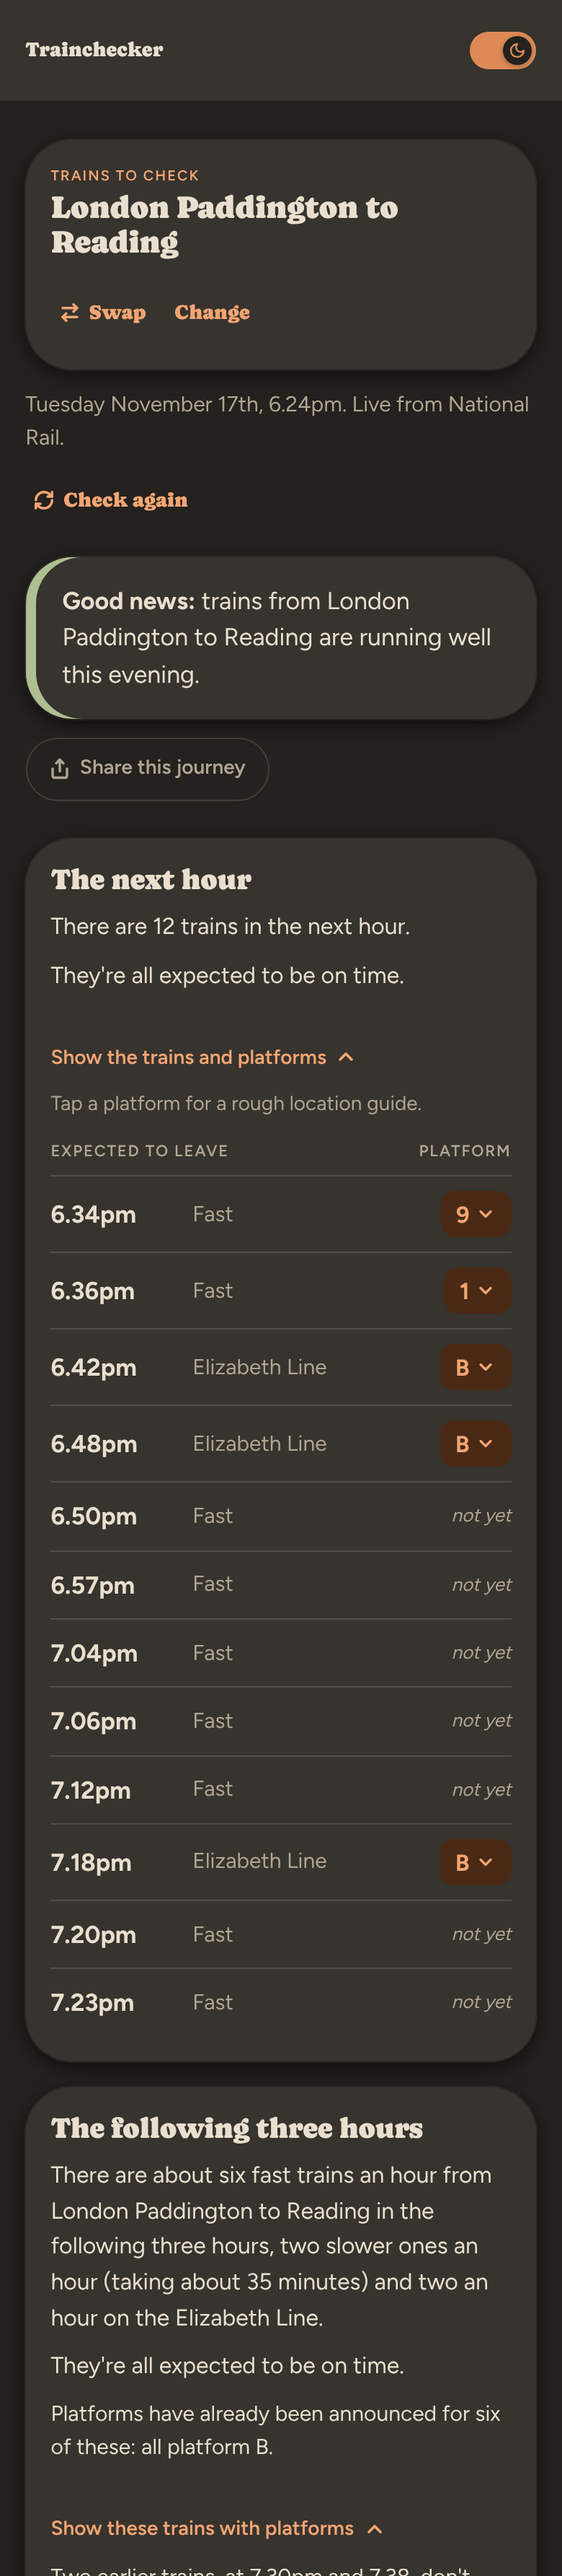
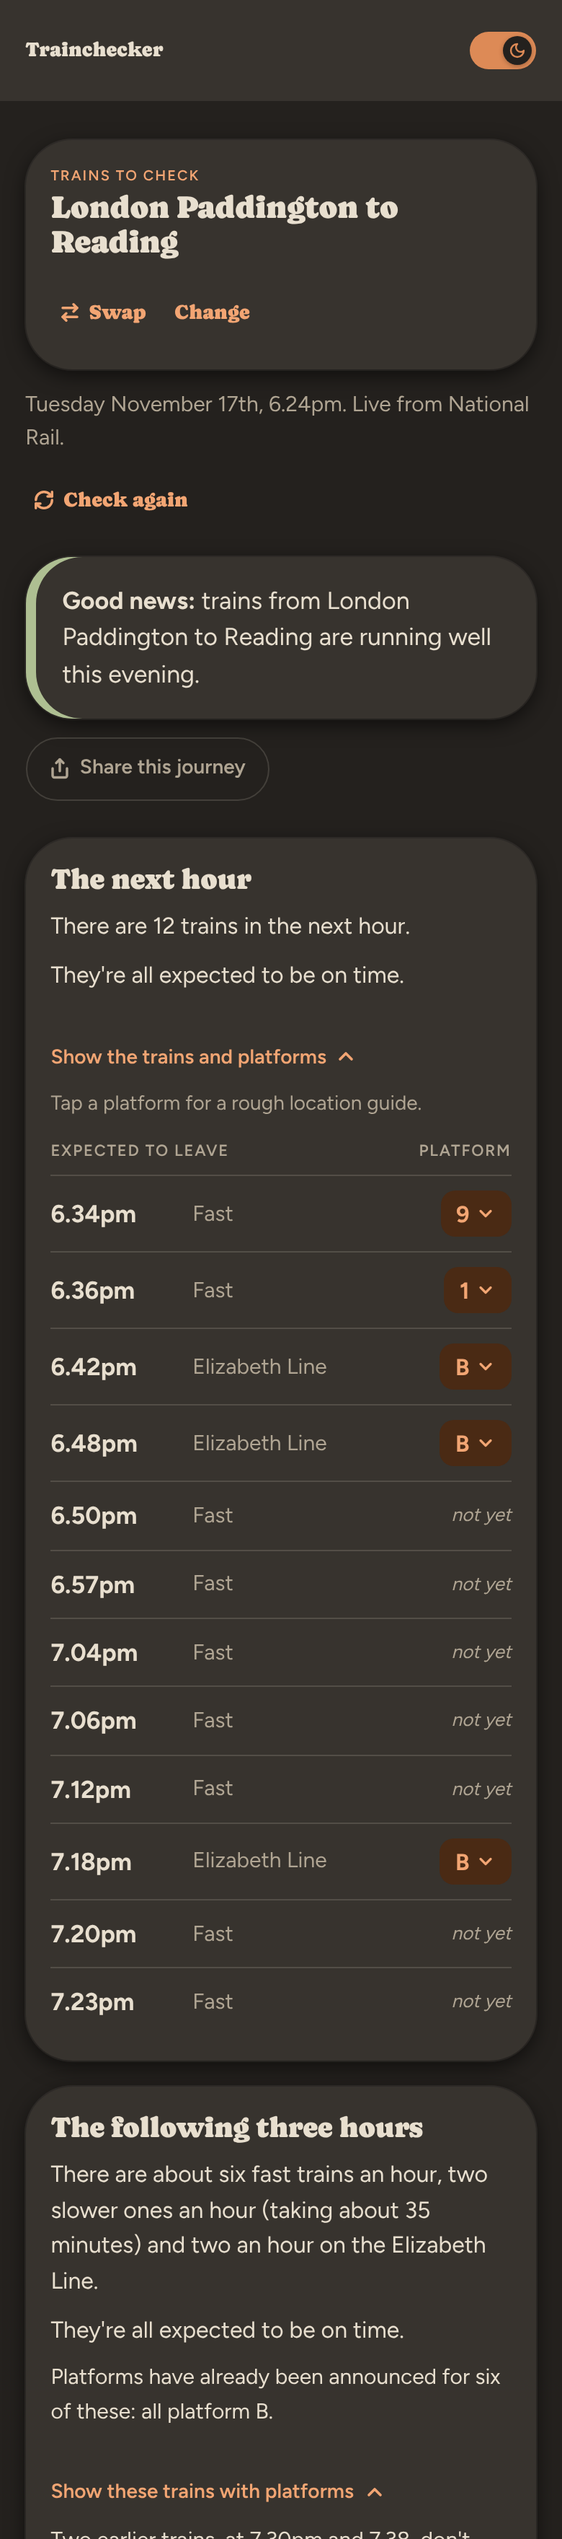
Prototype: the second panel's opening shortened; totals, never mixed with "an hour"
Claude-Session: https://claude.ai/code/session_01BsvHLH7nmuoQ4vvwafY9bf

diff --git a/src/lib/sentences.ts b/src/lib/sentences.ts
@@ -301,26 +301,31 @@ const perHour = (k: number, h = 4) => (k % h ? 'about ' : '') + num(Math.round(k
  *  Line." "An hour" after every group (John, November 18th 2026); one "and"; journey times only for the groups in the middle (people know the fastest
  *  and slowest). A group of fewer than four trains: "three on the Elizabeth Line in that time"
  *  (Claude's draft). */
-export function trainsAnHour(a: Analysis, h = 4, span = 'in the next four hours'): string | null {
+export function trainsAnHour(a: Analysis, h = 4, span = 'in the next four hours', short = false): string | null {
   if (a.ahead.length <= 2 * h) return null
   const gs = speedGroups(a)
+  // PROTOTYPE (November 24th 2026, John): in the shorter wording, when any group has fewer than one
+  // train an hour, every group is said as a total ("There's one fast train and nine slower ones."),
+  // never totals and "an hour" mixed.
+  const totals = short && gs.some((g) => g.k < h)
   const phrase = (g: Group, i: number) => {
-    const few = g.k < h
+    const few = totals || g.k < h
     const n = few ? num(g.k) : perHour(g.k, h)
     const one = few ? g.k === 1 : Math.round(g.k / h) === 1
     const time = i > 0 && i < gs.length - 1 ? ` (taking about ${num(Math.round(g.mins / 5) * 5)} minutes)` : ''
     // "An hour" after every group (John, November 18th 2026), so no figure can be read as a total.
-    const all = few && i > 0 ? ' in that time' : ''
+    const all = few && !totals && i > 0 ? ' in that time' : ''
     const hr = few ? '' : ' an hour'
     if (g.kind === 'elizabeth') return `${n}${hr} on the Elizabeth Line${all}${time}`
     const co = g.company ? `${g.company} ` : ''
     const adj = g.kind === 'all' ? '' : `${g.kind} `
-    if (i === 0) return `${n} ${adj}${co}${one ? 'train' : 'trains'}${few ? '' : ' an hour'} from ${a.from} to ${a.to} ${span}`
+    if (i === 0) return `${n} ${adj}${co}${one ? 'train' : 'trains'}${few ? '' : ' an hour'}${short ? '' : ` from ${a.from} to ${a.to} ${span}`}`
     return `${n} ${adj}${co}${one ? (co ? 'train' : 'one') : (co ? 'trains' : 'ones')}${hr}${all}${time}`
   }
   const ps = gs.map(phrase)
   const list = ps.length > 1 ? `${ps.slice(0, -1).join(', ')} and ${ps[ps.length - 1]}` : ps[0]
-  return `There ${gs[0].k === 1 || (gs[0].k >= h && Math.round(gs[0].k / h) === 1) ? 'is' : 'are'} ${list}.`
+  const single = totals ? gs[0].k === 1 : gs[0].k === 1 || (gs[0].k >= h && Math.round(gs[0].k / h) === 1)
+  return short ? `${single ? "There's" : 'There are'} ${list}.` : `There ${single ? 'is' : 'are'} ${list}.`
 }
 
 /** What follows "Cancelled" or "Expected 6.45pm, 7 minutes late" on the same line, in the
@@ -336,12 +341,12 @@ export function why(reason: string | null, operator: string): string {
 }
 
 /** PROTOTYPE (November 24th 2026): the first and later panels pass their own opening line. */
-export type Span = { first: string | null; hours?: number; span?: string }
+export type Span = { first: string | null; hours?: number; span?: string; short?: boolean }
 export function nextFour(a: Analysis, o?: Span): NextFour | null {
   if (a.verdict === 'none' || !a.ahead.length) return null
   const n = a.ahead.length
   const v = (k: number) => (k === 1 ? 'is' : 'are')
-  const lines = [o ? (o.hours ? trainsAnHour(a, o.hours, o.span) : null) ?? o.first ?? '' : trainsAnHour(a) ?? (n === 1 ? `There's one train from ${a.from} to ${a.to} in the next four hours.` : `There are ${num(n)} trains from ${a.from} to ${a.to} in the next four hours.`)]
+  const lines = [o ? (o.hours ? trainsAnHour(a, o.hours, o.span, o.short) : null) ?? o.first ?? '' : trainsAnHour(a) ?? (n === 1 ? `There's one train from ${a.from} to ${a.to} in the next four hours.` : `There are ${num(n)} trains from ${a.from} to ${a.to} in the next four hours.`)]
   // Trains leaving on time but expected at B more than five minutes late are said apart (fresh
   // look 2.2), so this never says they're all on time under "badly disrupted".
   const onTime = a.ahead.filter((s) => s.late !== null && s.late <= 3 && !a.arrLate.includes(s)).length

diff --git a/src/lib/windows.ts b/src/lib/windows.ts
@@ -84,8 +84,9 @@ export function laterPanel(a: Analysis, s = split(a)): { heading: string; next: 
   if (!n) return { heading, next: null, lines: [s.stretched ? `There are no more direct trains from ${a.from} to ${a.to} in the next four hours.` : `There are no more direct trains from ${a.from} to ${a.to} in the following three hours.`], platLine: null, later: l }
   const first = s.stretched
     ? (n === 1 ? 'There\'s one more train in the next four hours.' : `There are ${num(n)} more ${trainsWord(n)} in the next four hours.`)
-    : (n === 1 ? `There's one train from ${a.from} to ${a.to} in the following three hours.` : `There are ${num(n)} trains from ${a.from} to ${a.to} in the following three hours.`)
-  const next = nextFour(l, s.stretched ? { first } : { first, hours: 3, span: 'in the following three hours' })
+    : (n === 1 ? "There's one train." : `There are ${num(n)} trains.`)
+  // Short, as the heading says the period (John, November 24th 2026).
+  const next = nextFour(l, s.stretched ? { first } : { first, hours: 3, short: true })
   return { heading, next, lines: next ? next.lines : [first], platLine: laterPlatforms(l), later: l }
 }
 

diff --git a/CLAUDE.md b/CLAUDE.md
@@ -87,6 +87,13 @@ given its own branch). Before committing there, run
   trains' platforms; B: that line and a fold with them. Pictures and `shoot.mjs` in `design/previews/next-hour/`.
 - **Checked:** `npm run check` unchanged (264 + 57 + 79 + 40 + 76 + 36), `tsc -b`, build; 13 saved boards' sentences
   read through; pictures at 1200px light and 390px dark with touch: no errors, no sideways scroll.
+- **John:** 1 (three trains) and 2 ("The next three trains") yes; 3 the board uncapped is fine (it's folded); 4 A or B
+  to decide after looking on his phone; 5 the second panel's opening shortened, as its heading says the period ("There
+  are about five trains an hour."); 6 "not yet" kept; 7 never totals and "an hour" mixed. Done: `trainsAnHour(…, short)`,
+  used only by the second panel; when any group has fewer than one train an hour there, every group is a total
+  ("There's one fast train and nine slower ones.", Euston to Milton Keynes at 8.59pm). Survey of the saved boards, moved
+  back by up to two hours: the only mixed openings were that one and "… and three on the Elizabeth Line in that time"
+  (agreed November 18th, still on the live four-hour panel). Checks unchanged; `tsc -b`.
 
 ### November 24th 2026: "How do I get to my platform?", tapping a platform for a rough location guide; live (branch `claude/cool-sagan-k0e2ao`, merged the same day; Claude Code)
 
